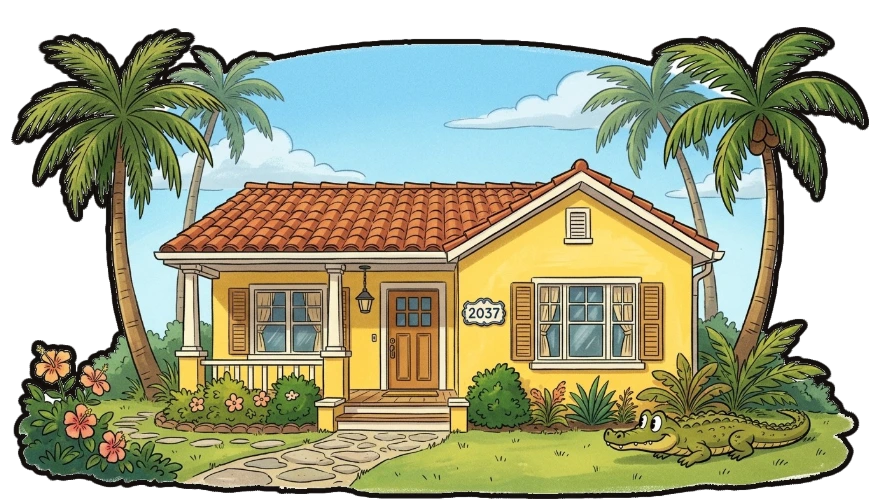
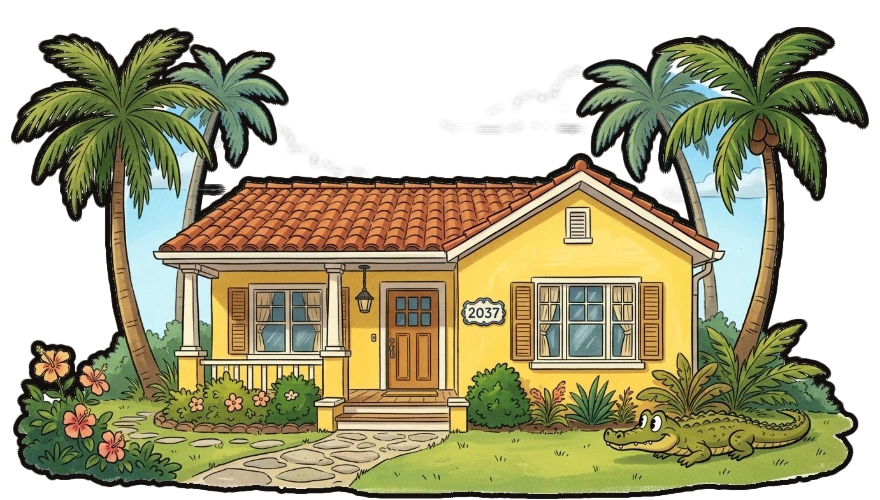
A la casita de Florida se le recorta el cielo
Venia con su propio cielo pintado dentro, en un ovalo detras de la casa, y
en el juego se veia como un parche azul delante de la ilustracion de la
ciudad. Ahora se queda solo la casa con sus palmeras, su jardin y su
cocodrilo.

Para eso el recorte gana fondosExtra: una hoja puede declarar otros
colores que tambien son fondo, cada uno con su tolerancia. Aqui el cielo
va con 115, que cubre desde el azul de arriba hasta el blanco de las nubes
y se queda a mas de 170 de las ventanas, que son azul grisaceo. Ademas las
ventanas van por dentro de la casa, donde el relleno de los bordes no
entra, asi que no habia riesgo.

Lo que NO sirve aqui es limpiarBolsas: con el blanco de fondo se llevaria
por delante las columnas del porche y los marcos, que son casi blancos.
Quedan un par de bolsas de cielo entre las hojas de las palmeras, de unos
28 px en pantalla, que contra el cielo de Space Coast no se distinguen.

Y una prueba que se me quedo al filo: la vaca se soltaba a 260 px del
nino, baja la cabeza a 240, asi que trotaba 0,17 s y el paso cambia a los
0,15. Comprobar que anima el trote salia a cara o cruz. Ahora se suelta a
460.

51 pruebas en verde.

diff --git a/CLAUDE.md b/CLAUDE.md
@@ -1243,3 +1243,11 @@ baja.
   de color saturado; en damero y en fondo por tono, `esBolsa` es `esFondo`, que
   si no se comeria las gaviotas blancas de un letrero. El tamano minimo de una
   bolsa tambien se puede bajar por hoja (`bolsaMinima`).
+- **2026-09-25** — La casita de Florida venia con **su propio cielo pintado**
+  dentro, en un ovalo detras de la casa, y en el juego se veia como un parche
+  azul delante de la ilustracion de la ciudad. El recorte gana `fondosExtra`:
+  una hoja puede declarar OTROS colores que tambien son fondo, cada uno con su
+  tolerancia. Las ventanas no corrieron peligro porque estan a mas de 170 de ese
+  azul y, ademas, van por dentro de la casa, donde el relleno de los bordes no
+  entra. Lo que NO se puede usar aqui es `limpiarBolsas`: con el blanco de fondo
+  se llevaria por delante las columnas y los marcos, que son casi blancos.
